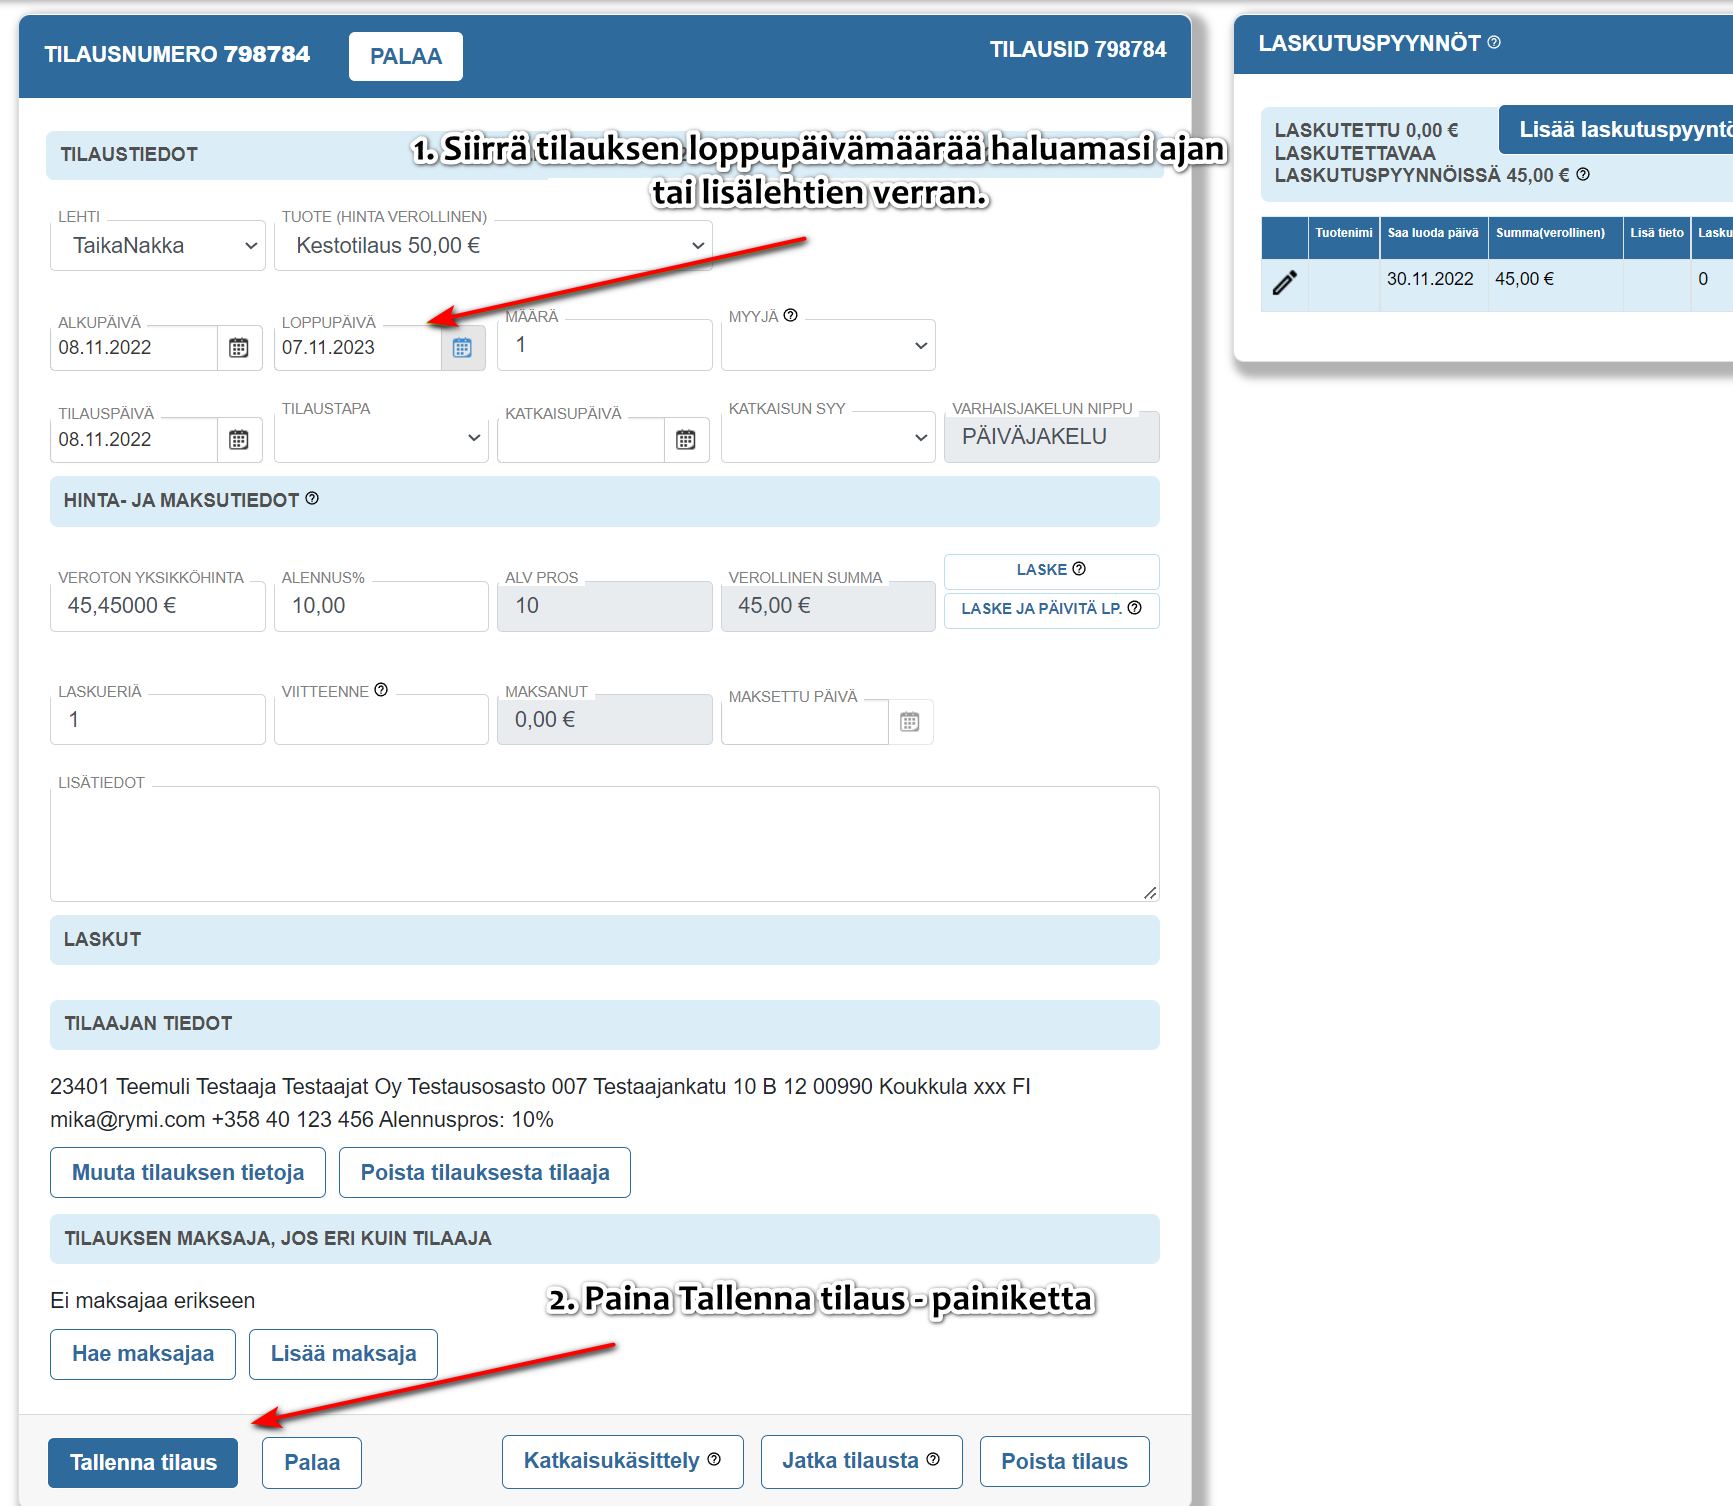
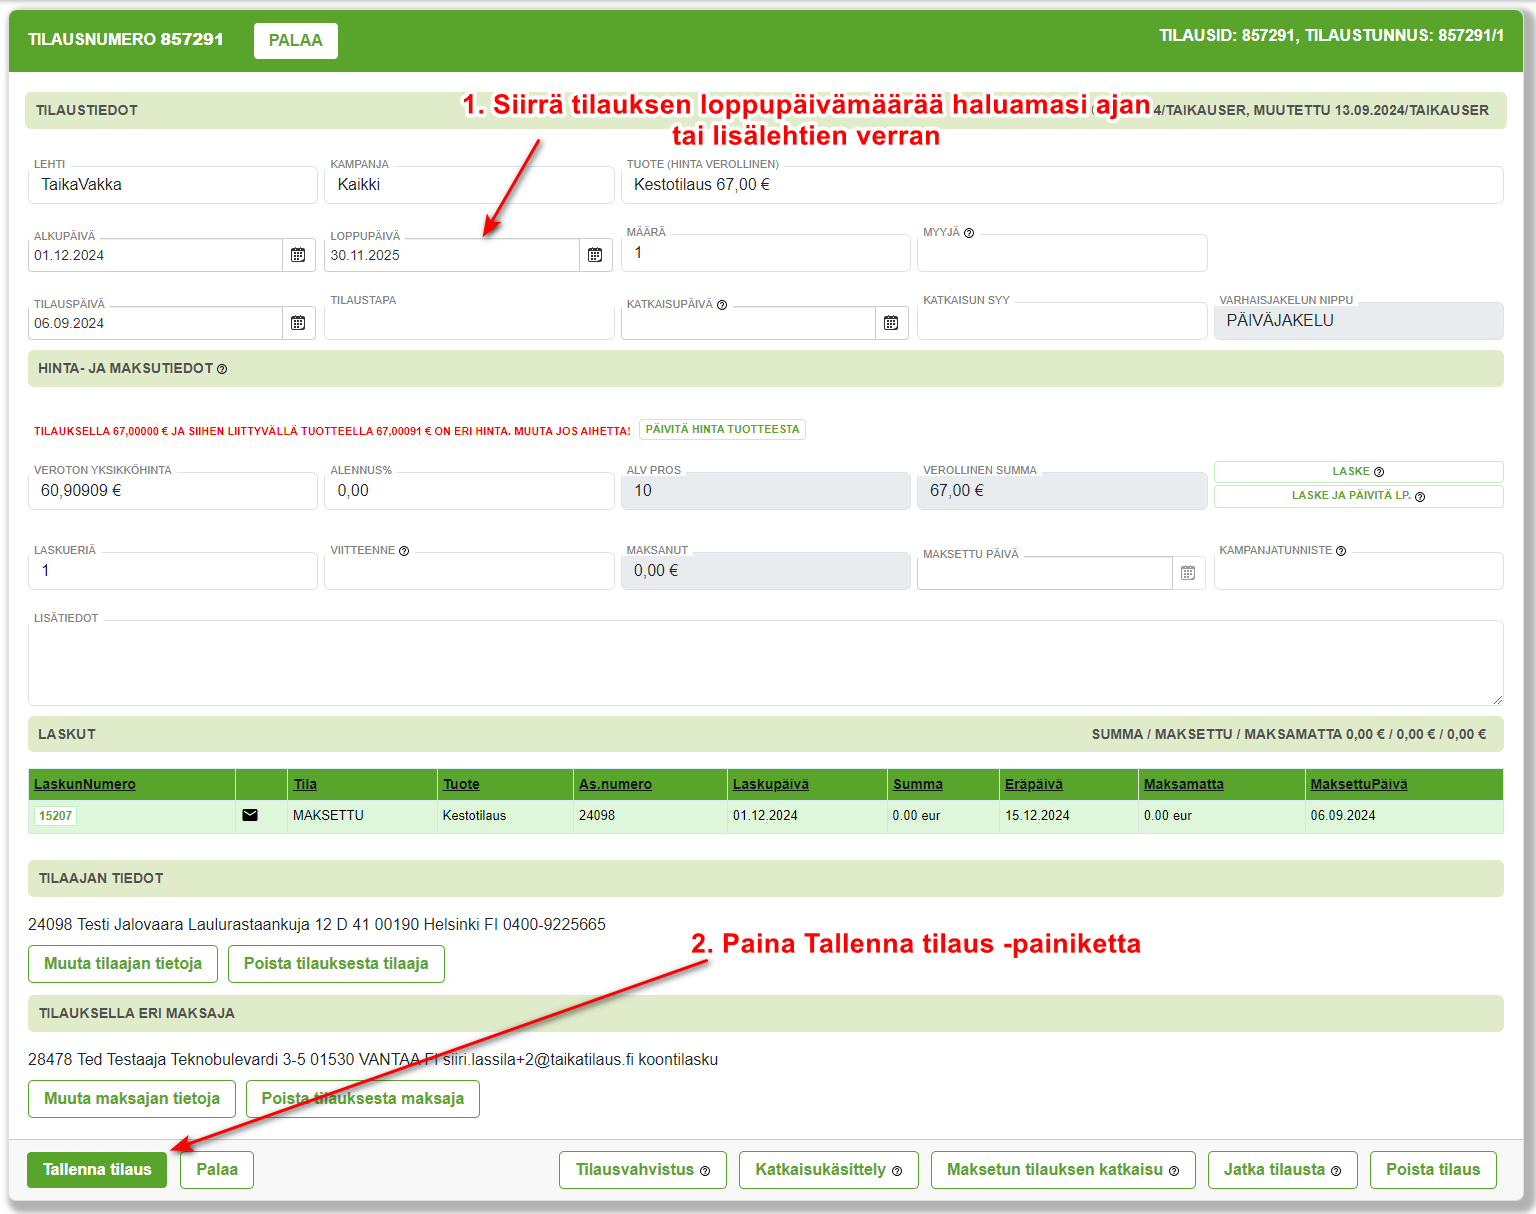
kuvien päivitys

diff --git a/docs/pikaohjeet/tilausjakson-pidentaminen.md b/docs/pikaohjeet/tilausjakson-pidentaminen.md
@@ -4,13 +4,15 @@ sidebar_position: 18
 
 # Tilausjakson pidentäminen
 
+Tilausjaksoa voidaan pidentää esimerkiksi silloin, kun asiakkaalla on ollut jakeluhäiriöitä, eikä heille ole tullut lehtiä.
+
 ### 1. Hae asiakas etusivunäkymältä
 
 ![1. Etusivunäkymä](/img/pikaohjeet/hakuehto.png)
 
 ### 2. Asiakastiedoista klikataan haluttu tilaus auki
 
-![2. Asiakastiedot](/img/pikaohjeet/tilausjakson_pidentaminen2.png)
+![2. Asiakastiedot](/img/pikaohjeet/asiamieskoodi-lisays2.png)
 
 ### 3. Tilaustiedoista voit siirtää tilauksen loppupäivämäärää haluamasi ajan. Lopuksi paina Tallenna
 
